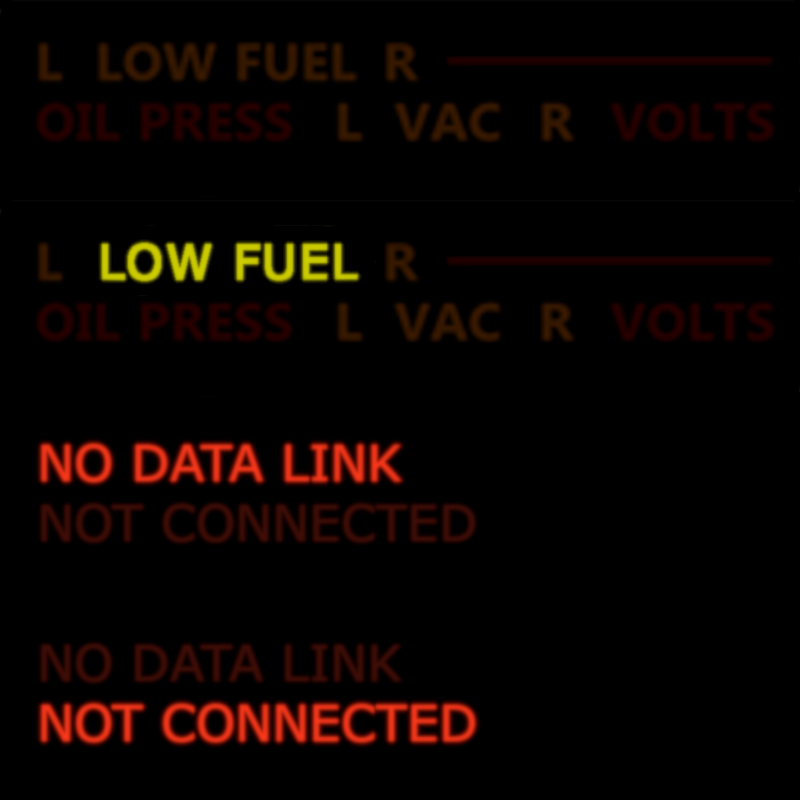
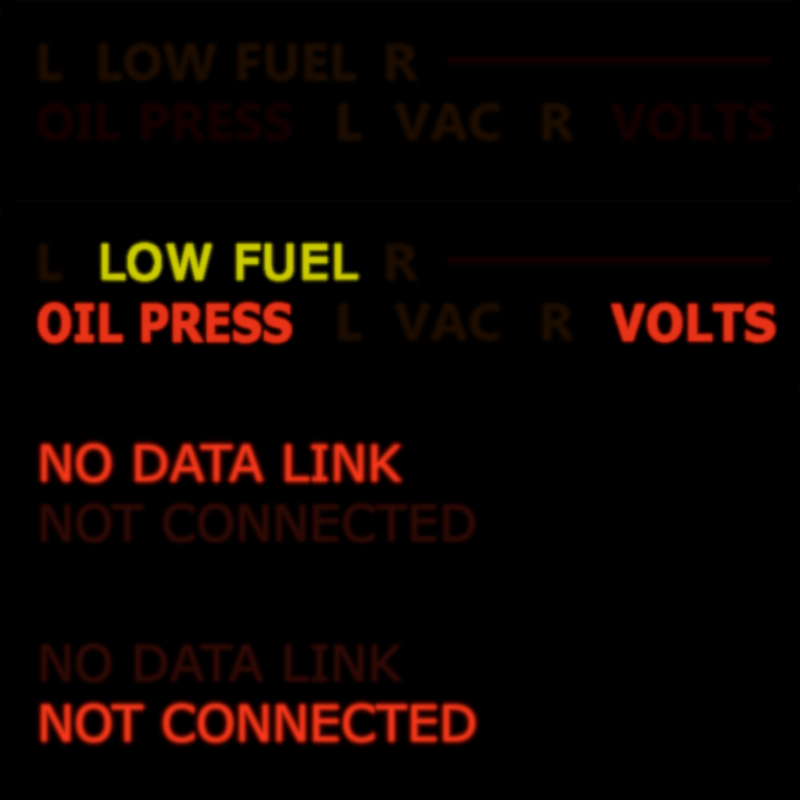
Add annunciator warnings

diff --git a/instrument-panel/instruments/annunciator.cpp b/instrument-panel/instruments/annunciator.cpp
@@ -10,6 +10,7 @@
 annunciator::annunciator(int xPos, int yPos, int size) : instrument(xPos, yPos, size)
 {
     setName("Annunciator");
+    simVars = &globals.simVars->simVars;
 
 #ifndef _WIN32
     // Only have hardware knobs on Raspberry Pi
@@ -50,24 +51,36 @@ void annunciator::resize()
     addBitmap(bmp);
 
     // 3 = Low fuel
-    bmp = al_create_bitmap(size, size / 4);
+    bmp = al_create_bitmap(280 * scaleFactor, 50 * scaleFactor);
     al_set_target_bitmap(bmp);
-    al_draw_scaled_bitmap(orig, 0, 200, 800, 200, 0, 0, size, size / 4, 0);
+    al_draw_scaled_bitmap(orig, 88, 237, 280, 50, 0, 0, 280 * scaleFactor, 50 * scaleFactor, 0);
     addBitmap(bmp);
 
-    // 4 = No data link
+    // 4 = Oil pressure
+    bmp = al_create_bitmap(257 * scaleFactor, 64 * scaleFactor);
+    al_set_target_bitmap(bmp);
+    al_draw_scaled_bitmap(orig, 35, 289, 257, 64, 0, 0, 257 * scaleFactor, 64 * scaleFactor, 0);
+    addBitmap(bmp);
+
+    // 5 = Volts
+    bmp = al_create_bitmap(167 * scaleFactor, 62 * scaleFactor);
+    al_set_target_bitmap(bmp);
+    al_draw_scaled_bitmap(orig, 610, 290, 167, 62, 0, 0, 167 * scaleFactor, 62 * scaleFactor, 0);
+    addBitmap(bmp);
+
+    // 6 = No data link
     bmp = al_create_bitmap(size, size / 4);
     al_set_target_bitmap(bmp);
     al_draw_scaled_bitmap(orig, 0, 400, 800, 200, 0, 0, size, size / 4, 0);
     addBitmap(bmp);
 
-    // 5 = Not connected
+    // 7 = Not connected
     bmp = al_create_bitmap(size, size / 4);
     al_set_target_bitmap(bmp);
     al_draw_scaled_bitmap(orig, 0, 600, 800, 200, 0, 0, size, size / 4, 0);
     addBitmap(bmp);
 
-    // 6 = ATC info background
+    // 8 = ATC info background
     bmp = al_create_bitmap(size, size / 4);
     al_set_target_bitmap(bmp);
     al_draw_scaled_bitmap(orig, 0, 600, 1, 1, 0, 0, size, size / 4, 0);
@@ -95,28 +108,38 @@ void annunciator::render()
     if (!globals.dataLinked)
     {
         // 'No Data Link' message
-        al_draw_bitmap(bitmaps[4], 0, 0, 0);
+        al_draw_bitmap(bitmaps[6], 0, 0, 0);
         state = 0;
     }
     else if (!globals.connected)
     {
         // 'Not Connected' message
-        al_draw_bitmap(bitmaps[5], 0, 0, 0);
+        al_draw_bitmap(bitmaps[7], 0, 0, 0);
         state = 1;
     }
     else {
         state = 2;
 
-        if (fuelWarning) {
-            al_draw_bitmap(bitmaps[3], 0, 0, 0);
+        if (selection == 0) {
+            showAtcInfo();
         }
         else {
-            // No warnings
-            if (selection == 0) {
-                showAtcInfo();
-            }
-            else {
-                al_draw_bitmap(bitmaps[2], 0, 0, 0);
+            // Draw no warnings (warnings get overlayed)
+            al_draw_bitmap(bitmaps[2], 0, 0, 0);
+
+            // No warnings if no electrics
+            if (globals.electrics) {
+                if (fuelWarning) {
+                    al_draw_bitmap(bitmaps[3], 88 * scaleFactor, 37 * scaleFactor, 0);
+                }
+
+                if (oilWarning) {
+                    al_draw_bitmap(bitmaps[4], 35 * scaleFactor, 89 * scaleFactor, 0);
+                }
+
+                if (voltsWarning) {
+                    al_draw_bitmap(bitmaps[5], 610 * scaleFactor, 90 * scaleFactor, 0);
+                }
             }
         }
     }
@@ -139,7 +162,6 @@ void annunciator::render()
 
 void annunciator::showAtcInfo()
 {
-    SimVars* simVars = &globals.simVars->simVars;
     char callSign[256];
 
     if (simVars->atcFlightNumber[0] == '\0') {
@@ -153,9 +175,9 @@ void annunciator::showAtcInfo()
         strcat(callSign, "Heavy");
     }
 
-    al_draw_bitmap(bitmaps[6], 0, 0, 0);
+    al_draw_bitmap(bitmaps[8], 0, 0, 0);
     al_draw_text(globals.font, al_map_rgb(0x80, 0x80, 0x80), 20, 20, 0, simVars->atcTailNumber);
-    // Temp hack - Comment next line out
+    // Debug - Uncomment to show aircraft name
     //strcpy(callSign, simVars->aircraft);
     al_draw_text(globals.font, al_map_rgb(0x80, 0x80, 0x80), 20, 40, 0, callSign);
 }
@@ -183,9 +205,6 @@ void annunciator::update()
         updateKnobs();
     }
 #endif
-
-    // Get latest FlightSim variables
-    SimVars* simVars = &globals.simVars->simVars;
 
     // Calculate values
     double fuelLevel = (simVars->fuelLeft + simVars->fuelRight) / 2;
@@ -226,6 +245,12 @@ void annunciator::update()
         // Steady fuel warning
         fuelWarning = true;
     }
+
+    // Oil warning if pressure < 20 PSI
+    oilWarning = (simVars->oilPressure < 20);
+
+    // Volts warning if battery not charging, i.e. load is greater than zero
+    voltsWarning = (simVars->batteryLoad > 0);
 }
 
 #ifndef _WIN32

diff --git a/instrument-panel/instrument.cpp b/instrument-panel/instrument.cpp
@@ -87,22 +87,43 @@ void instrument::destroyBitmaps()
         al_destroy_bitmap(dim);
         dim = NULL;
     }
+
+    if (semiDim) {
+        al_destroy_bitmap(semiDim);
+        semiDim = NULL;
+    }
 }
 
 /// <summary>
 /// Will dim the instrument when not connected, i.e. screensaver
 /// </summary>
-void instrument::dimInstrument()
+void instrument::dimInstrument(bool fullDim)
 {
-    if (dim == NULL) {
+    if (fullDim && dim == NULL) {
         dim = loadBitmap("dim.png");
+    }
+
+    if (!fullDim && semiDim == NULL) {
+        semiDim = loadBitmap("semi-dim.png");
+    }
+
+    ALLEGRO_BITMAP* bmp;
+    if (fullDim) {
+        bmp = dim;
+    }
+    else {
+        bmp = semiDim;
+    }
+
+    if (!bmp) {
+        return;
     }
 
     // Set blender to multiply (shades of grey darken, white has no effect)
     al_set_blender(ALLEGRO_ADD, ALLEGRO_DEST_COLOR, ALLEGRO_ZERO);
 
     // Add pointer shadow
-    al_draw_scaled_bitmap(dim, 0, 0, 8, 8, xPos, yPos, size, size, 0);
+    al_draw_scaled_bitmap(bmp, 0, 0, 8, 8, xPos, yPos, size, size, 0);
 
     // Restore normal blender
     al_set_blender(ALLEGRO_ADD, ALLEGRO_ALPHA, ALLEGRO_INVERSE_ALPHA);

diff --git a/instrument-panel/simvarDefs.h b/instrument-panel/simvarDefs.h
@@ -25,8 +25,7 @@ struct SimVars
     double dcFlightSeconds = 0;
     double dcVolts = 23.7;
     double dcTempC = 26.2;
-    double oilPressureGeneral = 0;
-    double oilPressure = 0;
+    double batteryLoad = 0;
     double rpmEngine = 0;
     double rpmPercent = 0;
     double rpmElapsedTime = 0;
@@ -78,7 +77,7 @@ struct SimVars
     double parkingBrakeOn = 1;
     double cruiseSpeed = 120;
     double oilTemp = 75;
-    double oilPress = 0;
+    double oilPressure = 50;
     double exhaustGasTemp = 0;
     double exhaustGasTempGES = 0;
     double engineFuelFlow = 0;

diff --git a/instrument-panel/instruments/annunciator.h b/instrument-panel/instruments/annunciator.h
@@ -1,6 +1,7 @@
 #ifndef _ANNUNCIATOR_H_
 #define _ANNUNCIATOR_H_
 
+#include "simvarDefs.h"
 #include "instrument.h"
 #ifndef _WIN32
 #include <time.h>
@@ -9,12 +10,15 @@
 class annunciator : public instrument
 {
 private:
+    SimVars* simVars;
     float scaleFactor;
 
     // Instrument values (caclulated from variables and needed to draw the instrument)
     int selection = 1;
     int prevState = -1;
     bool fuelWarning;
+    bool voltsWarning;
+    bool oilWarning;
     double prevFuel = 100;
     int flashCount;
 #ifdef _WIN32

diff --git a/instrument-panel/instrument.h b/instrument-panel/instrument.h
@@ -20,6 +20,7 @@ protected:
     int bitmapCount = 0;
     ALLEGRO_BITMAP* bitmaps[MaxBitmaps] = { NULL };
     ALLEGRO_BITMAP* dim = NULL;
+    ALLEGRO_BITMAP* semiDim = NULL;
     instrument* customInstrument = NULL;
 
 public:
@@ -32,7 +33,7 @@ public:
     instrument(int xPos, int yPos, int size);
     ~instrument();
     void setName(const char* name);
-    void dimInstrument();
+    void dimInstrument(bool fullDim = true);
     virtual void resize() = 0;
     virtual void render() = 0;
     virtual void update() = 0;

diff --git a/instrument-panel/simvarDefs.cpp b/instrument-panel/simvarDefs.cpp
@@ -23,8 +23,7 @@ const char* SimVarDefs[][2] = {
     { "Absolute Time", "seconds" },
     { "Electrical Main Bus Voltage", "volts" },
     { "Ambient Temperature", "celsius" },
-    { "General Eng Oil Pressure:1", "psi" },
-    { "Eng Oil Pressure:1", "psi" },
+    { "Electrical Battery Load", "amperes" },
     { "General Eng Rpm:1", "rpm" },
     { "Eng Rpm Animation Percent:1", "percent" },
     { "General Eng Elapsed Time:1", "hours" },

diff --git a/instrument-panel/instruments/nav.cpp b/instrument-panel/instruments/nav.cpp
@@ -156,7 +156,13 @@ void nav::render()
     al_draw_bitmap(bitmaps[1], xPos, yPos, 0);
 
     if (!globals.avionics) {
+        // Full dim if avionics turned off
         dimInstrument();
+    }
+    else if (!globals.active) {
+        // Semi dim if screensaver activated but avionics turned on
+        // allows radio to be tuned when engine not started.
+        dimInstrument(false);
     }
 }
 

diff --git a/instrument-panel/instruments/digitalClock.cpp b/instrument-panel/instruments/digitalClock.cpp
@@ -225,7 +225,12 @@ void digitalClock::render()
     al_draw_bitmap(bitmaps[1], xPos, yPos, 0);
 
     if (!globals.avionics) {
+        // Full dim if avionics turned off
         dimInstrument();
+    }
+    else if (!globals.active) {
+        // Semi dim if screensaver activated but avionics turned on
+        dimInstrument(false);
     }
 }
 

diff --git a/instrument-panel/instruments/oil.cpp b/instrument-panel/instruments/oil.cpp
@@ -97,5 +97,6 @@ void oil::update()
 /// </summary>
 void oil::addVars()
 {
-    // globals.simVars->addVar(name, "Value", false, 1, 0);
+    globals.simVars->addVar(name, "General Eng Oil Temperature:1", false, 1, 75);
+    globals.simVars->addVar(name, "General Eng Oil Pressure:1", false, 1, 50);
 }

diff --git a/instrument-panel/instruments/egt.cpp b/instrument-panel/instruments/egt.cpp
@@ -84,8 +84,6 @@ void egt::render()
     // Add dials
     al_draw_bitmap(bitmaps[2], 0, 0, 0);
 
-   
-
     // Add Flow pointer
     al_draw_scaled_rotated_bitmap(bitmaps[4], 186, 20, 386 * scaleFactor, 200 * scaleFactor, scaleFactor, scaleFactor, flowAngle * DegreesToRadians, 0);
 

diff --git a/instrument-panel/instruments/vac.cpp b/instrument-panel/instruments/vac.cpp
@@ -97,5 +97,6 @@ void vac::update()
 /// </summary>
 void vac::addVars()
 {
-    // globals.simVars->addVar(name, "Value", false, 1, 0);
+    globals.simVars->addVar(name, "Suction Pressure", false, 1, 0);
+    globals.simVars->addVar(name, "Electrical Battery Load", false, 1, 0);
 }
